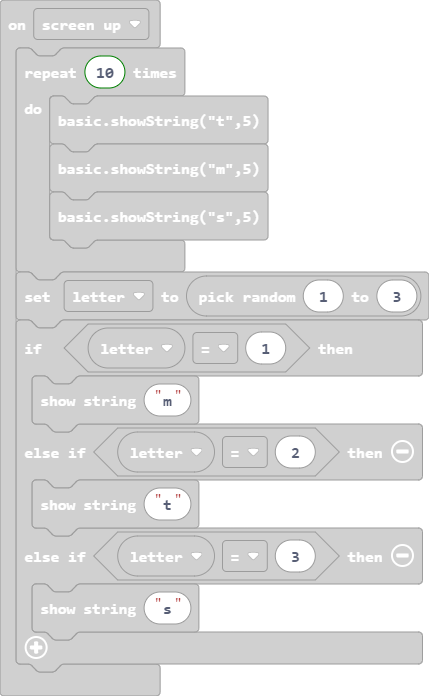
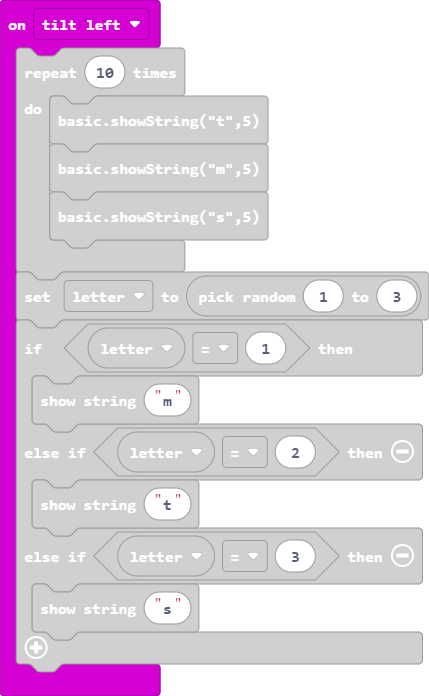
Update main.blocks, main.ts

Changed region(s): [[0.0, 0.0, 0.3939, 1.0]]

diff --git a/main.ts b/main.ts
@@ -1,7 +1,7 @@
 input.onButtonPressed(Button.A, function () {
     basic.showString("y=mx+b")
 })
-input.onGesture(Gesture.ScreenUp, function () {
+input.onGesture(Gesture.TiltLeft, function () {
     for (let index = 0; index < 10; index++) {
         basic.showString("t",5)
 basic.showString("m",5)
